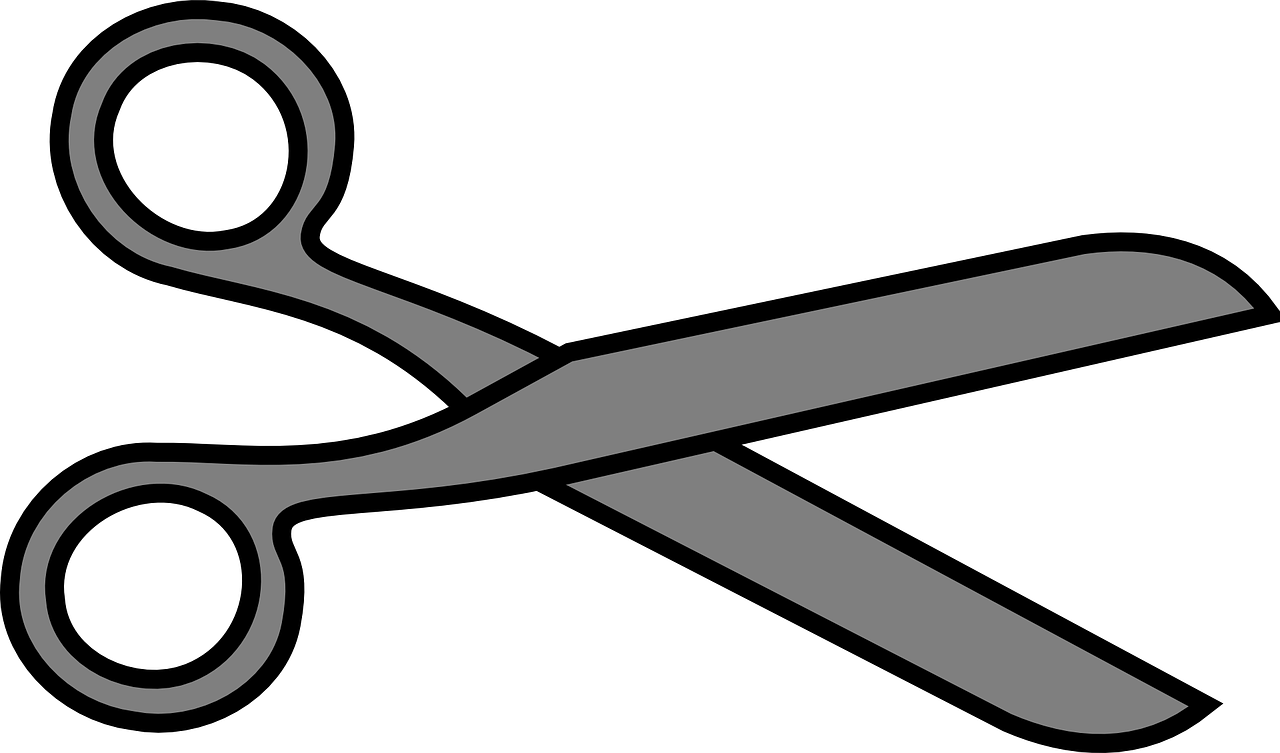
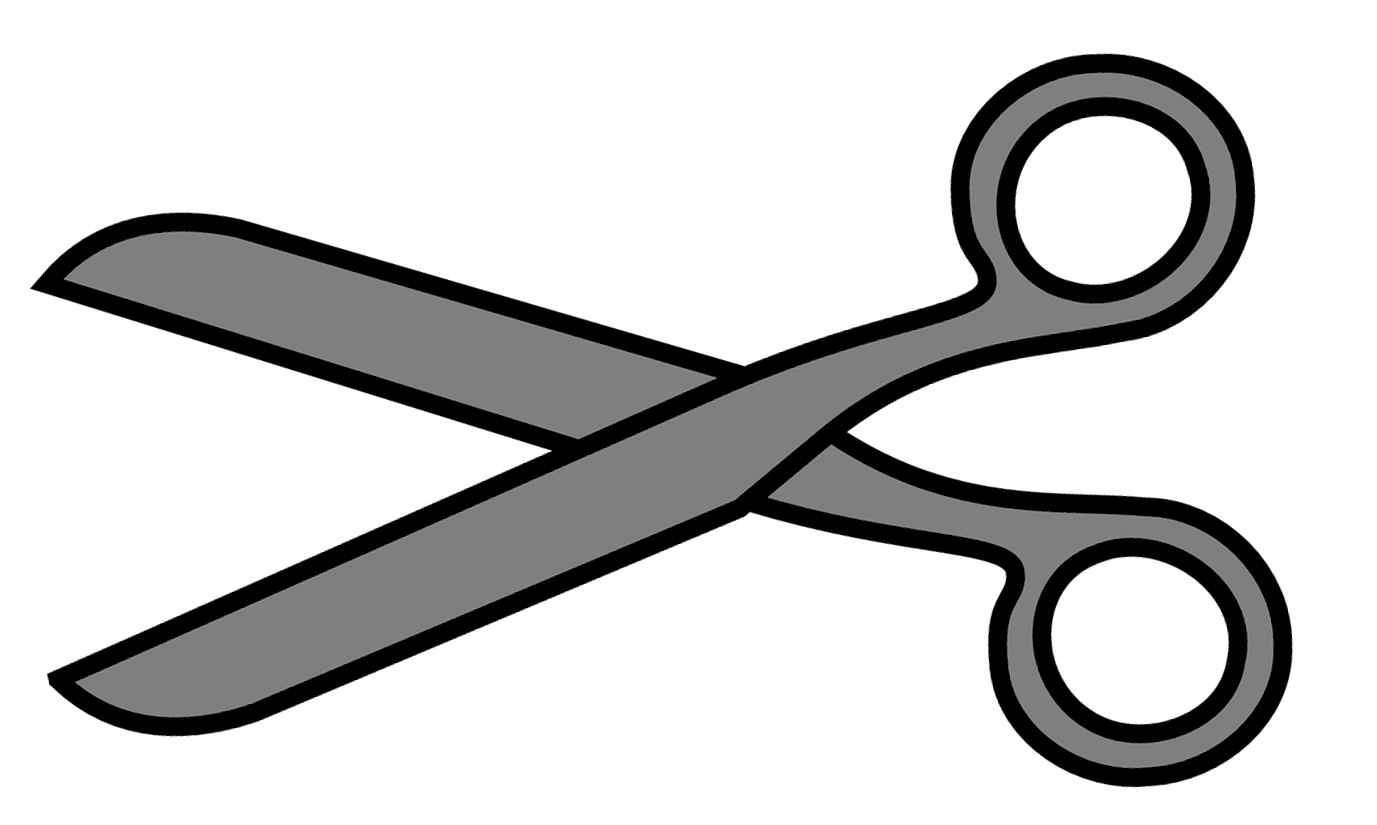
transition not working

diff --git a/script.js b/script.js
@@ -13,18 +13,18 @@ const resultPara2 = document.querySelector('p.msg2');
 pScore.textContent = 'Player score: 0';
 cScore.textContent = 'Computer score: 0';
 
-rockBtn.addEventListener('click', () => {
+rockBtn.addEventListener('click', handleButtonClick);
+paperBtn.addEventListener('click', handleButtonClick);
+scissorsBtn.addEventListener('click', handleButtonClick);
+
+function handleButtonClick(e) {
+    let weapon;
+    if (e.target.className === 'btn-img rock') weapon = 'Rock';
+    if (e.target.className === 'btn-img paper') weapon = 'Paper';
+    if (e.target.className === 'btn-img scissors') weapon = 'Scissors';
+    playSingleRound(weapon, generateRandomComputerPlay());
     deletePreviousWinnerAndLoser();
-    playSingleRound('Rock', generateRandomComputerPlay());
-});
-paperBtn.addEventListener('click', () => {
-    deletePreviousWinnerAndLoser();
-    playSingleRound('Paper', generateRandomComputerPlay());
-});
-scissorsBtn.addEventListener('click', () => {
-    deletePreviousWinnerAndLoser();
-    playSingleRound('Scissors', generateRandomComputerPlay());
-});
+}
 
 function generateRandomComputerPlay() {
     const PLAYS = ['Rock', 'Paper', 'Scissors'];
@@ -32,15 +32,16 @@ function generateRandomComputerPlay() {
 }
 
 function playSingleRound(playerSelection, computerSelection) {
-    const WINNING_COMBOS = ['Rock, Scissors', 'Paper, Rock', 'Scissors, Paper'];
-    const TIE_COMBOS = ['Rock, Rock', 'Paper, Paper', 'Scissors, Scissors'];
+    renderAnimation();
 
-    const currentCombo = playerSelection + ', ' + computerSelection;
-
-    if (WINNING_COMBOS.includes(currentCombo)) {
+    if ((playerSelection === 'Rock' && computerSelection === 'Scissors') || 
+        (playerSelection === 'Paper' && computerSelection === 'Rock') ||
+        (playerSelection === 'Scissors' && computerSelection === 'Paper')) {
         winRound();
     }
-    else if (TIE_COMBOS.includes(currentCombo)) {
+    else if ((playerSelection === 'Rock' && computerSelection === 'Rock') ||
+            (playerSelection === 'Paper' && computerSelection === 'Paper') ||
+            (playerSelection === 'Scissors' && computerSelection === 'Scissors')) {
         tieRound();
     }
     else {
@@ -86,6 +87,37 @@ function playSingleRound(playerSelection, computerSelection) {
     function renderScore() {
         pScore.textContent = `Player score: ${playerScore}`;
         cScore.textContent = `Computer score: ${computerScore}`;
+    }
+
+    function renderAnimation() {
+        
+        //based on playerselection, create appropriate image an add
+        const playerImg = document.createElement('img');
+        playerImg.classList.add('animation-img', 'left');
+        const playerSrc = `./images/${playerSelection.toLowerCase()}.png`;
+        playerImg.src = playerSrc;
+        playerImg.alt = playerSelection;
+        //append the image to the <section class="animation"></section>
+        const section = document.querySelector('section.animation');
+        //it should have classes .animation-img, .left
+        //add the right image for the comp selection to it as well.
+        const compImg = document.createElement('img');
+        compImg.classList.add('animation-img', 'right');
+        const compSrc = `./images/${computerSelection.toLowerCase()}.png`;
+        compImg.src = compSrc;
+        compImg.alt = computerSelection;
+
+        section.append(playerImg, compImg);
+        //it should have .animation-img, .right 
+        setTimeout(() => {
+            playerImg.classList.remove('left');
+            compImg.classList.remove('right');
+        }, 2000);
+        //remove those two classes
+        //after 2 seconds add the classes back on 
+        //remove the images from the DOM
+
+
     }
 
 }

diff --git a/index.html b/index.html
@@ -10,32 +10,73 @@
     body {
       height: 100vh;
       justify-content: space-between;
-    }
-    .weapon-img {
-      width: 100px;
-      height: 100px;
+      font-family: sans-serif;
+      background-color: #ffea00;
     }
     .row {
       display: flex;
     }
     header > .row {
       justify-content: space-between;
+      padding-bottom: 1rem;
     }
     .container {
       width: 95%;
       margin: 0 auto;
       padding-bottom: 10rem;
+      padding-top: 1rem;
     }
     .column {
       display: flex;
       flex-direction: column;
     }
-    footer.column {
+    section.column {
       align-items: center;
+      gap: 1rem;
     }
     button + button {
       margin-left: 2rem;
     }
+    h1 {
+      font-size: 2.5rem;
+      text-align: center;
+    }
+    h2, p.player-score, p.computer-score {
+      font-size: 1.5rem;
+    }
+    p.computer-score {
+      text-align: right;
+    }
+    .msg, .msg2 {
+      text-align: center;
+      font-size: 1.5rem;
+    }
+    .btn-img {
+      height: 20vw;
+      width:  20vw;
+      object-fit: contain;
+      max-width: 170px;
+      max-height: 170px;
+    }
+    .animation-img {
+      height: 35vw;
+      width: 35vw;
+      object-fit: contain;
+      max-width: 240px;
+      max-height: 240px;
+      transition: all 4s;
+      position: relative;
+    }
+    .left {
+      left: -1000px;
+    }
+    .right {
+      right: -1000px;
+    }
+    .animation {
+      text-align: center;
+    }
+    
   </style>
 </head>
 <body class="container column"> 
@@ -48,14 +89,22 @@
     <p class="msg"></p>
     <p class="msg2"></p>
   </header>
-  <footer class="column">
-    <h2>Choose Your Weapon:</h2>
-    <div>
-      <button class="rock-btn"><img class="weapon-img rock" src="./images/rock.png" alt="a rock"></button>
-      <button class="paper-btn"><img class="weapon-img paper" src="./images/paper.png" alt="a sheet of lined paper"></button>
-      <button class="scissors-btn"><img class="weapon-img scissors" src="./images/scissors.png" alt="a pair of scissors"></button>
-    </div>
-  </footer>
+  <main>
+    <section class="animation">
+      <!-- <img class="animation-img" src="./images/scissors.png"> -->
+      <!-- <img class="animation-img" src="./images/rock.png"> -->
+      <!-- <img class="animation-img" src="./images/paper.png"> -->
+    </section>
+    <section class="column">
+      <h2 class="choose">Choose Your Weapon:</h2>
+      <div>
+        <button class="rock-btn"><img class="btn-img rock" src="./images/rock.png" alt="a rock"></button>
+        <button class="paper-btn"><img class="btn-img paper" src="./images/paper.png" alt="a sheet of lined paper"></button>
+        <button class="scissors-btn"><img class="btn-img scissors" src="./images/scissors.png" alt="a pair of scissors"></button>
+      </div>
+    </section>
+  </main>
+  
   <script src="./script.js"></script>
 </body>
 </html>
